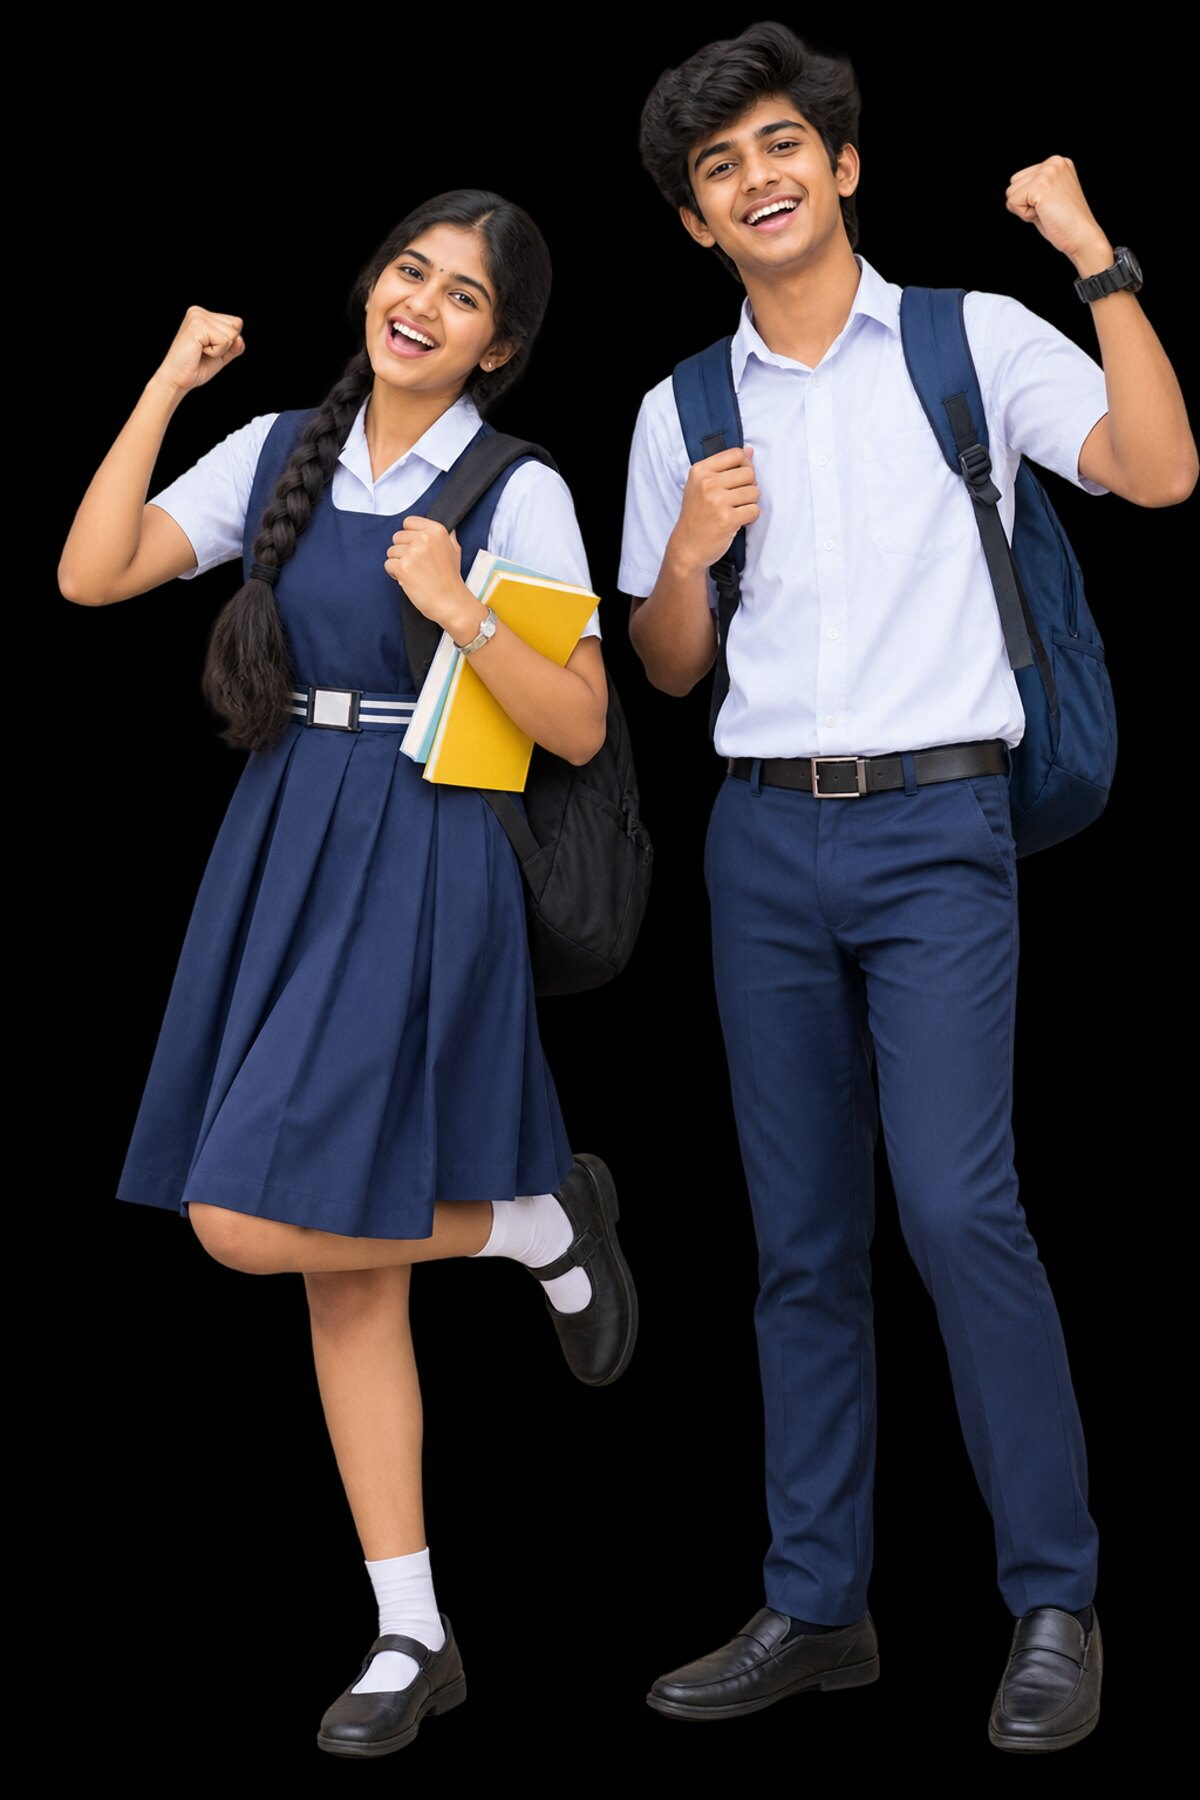
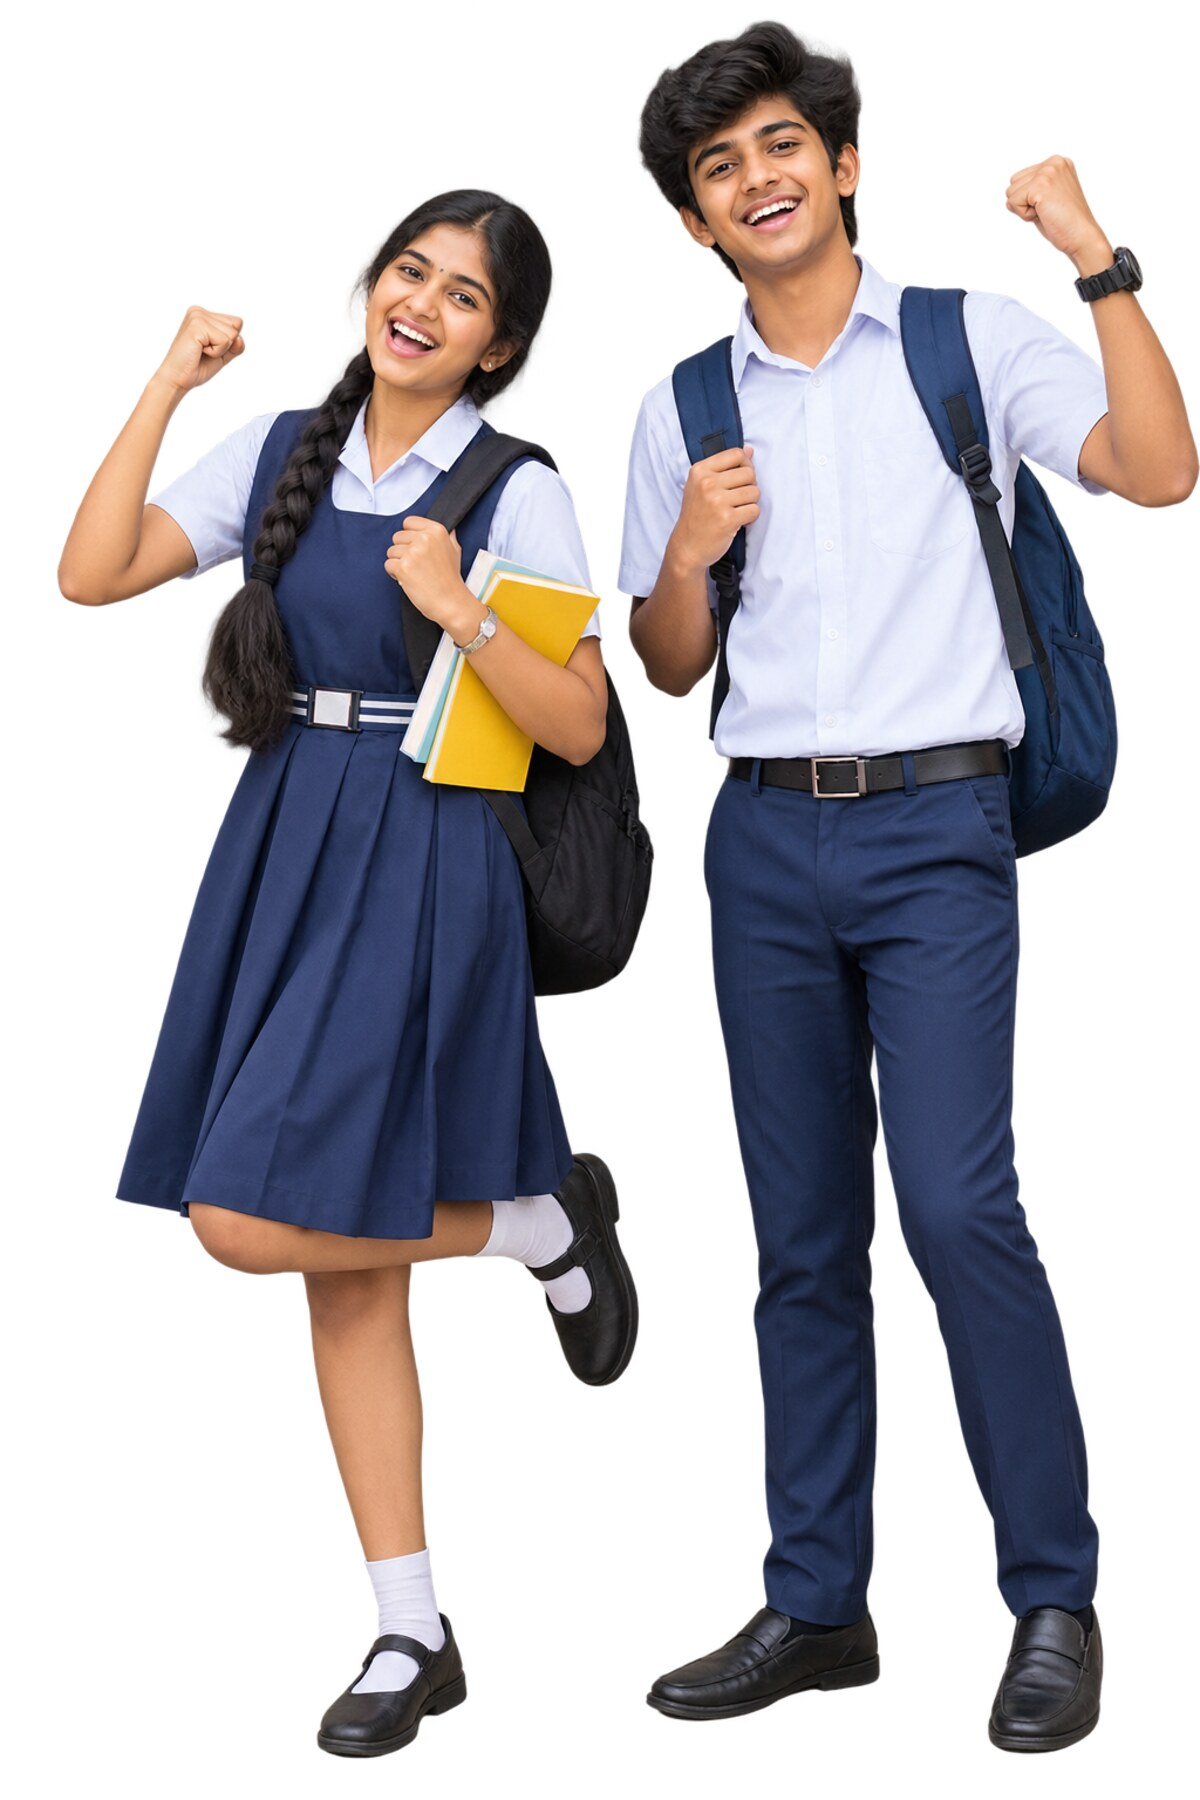
Flatten hero/reach cutouts onto light backgrounds, not black
banner.png and map.png are transparent PNGs (clean cutouts of the two
students and the Karnataka state shape). The previous commit flattened
them on black, so both showed a dark rectangle. Re-flatten hero.jpg on
white to match the hero photo frame, and reach.jpg on --paper-deep;
the reach panel background follows suit so the map blends into the
section instead of sitting in a dark box.

Claude-Session: https://claude.ai/code/session_01MeKBAANUSkCzhvpNWpnr6F

diff --git a/app/globals.css b/app/globals.css
@@ -440,7 +440,7 @@ section{padding:100px 0;}
   font-family:var(--font-inter), sans-serif;font-size:13.5px;text-transform:uppercase;letter-spacing:0.04em;font-weight:700;
 }
 .city-item .pin{color:var(--marigold);font-size:15px;}
-.reach-photo{border:1px solid var(--ink);overflow:hidden;background:#0b1020;}
+.reach-photo{border:1px solid var(--ink);overflow:hidden;background:var(--paper-deep);}
 .reach-photo img{width:100%;height:520px;object-fit:contain;}
 
 /* ===== Partners ===== */
